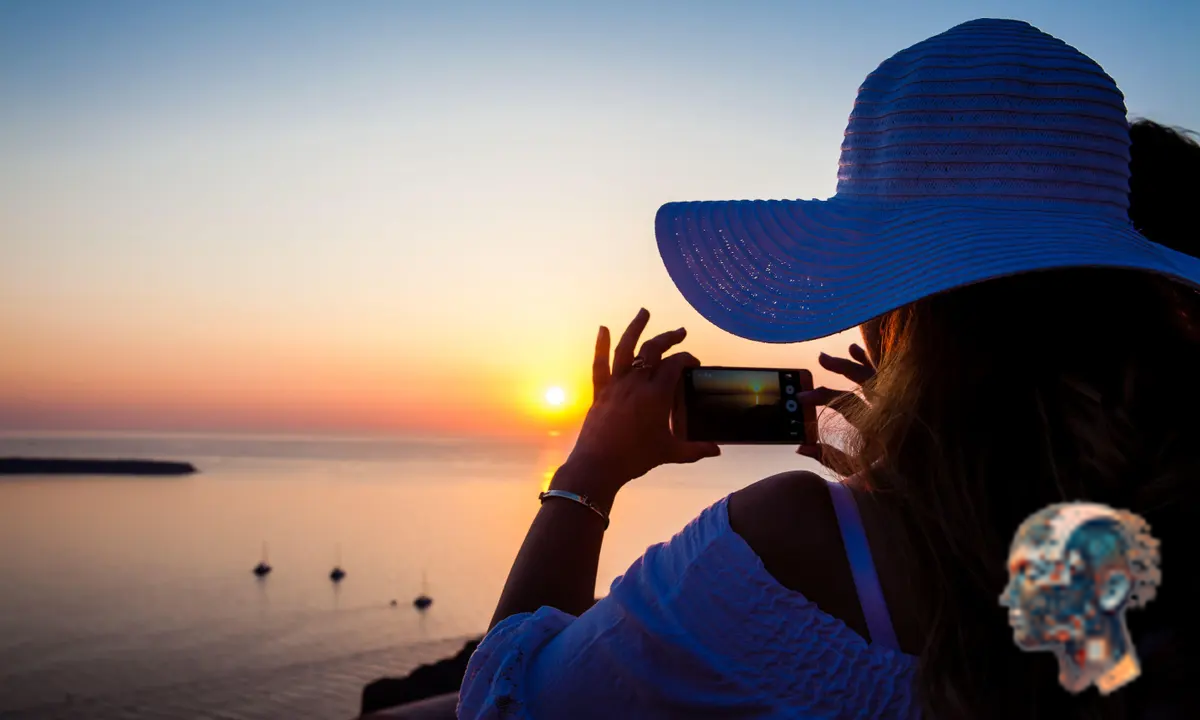
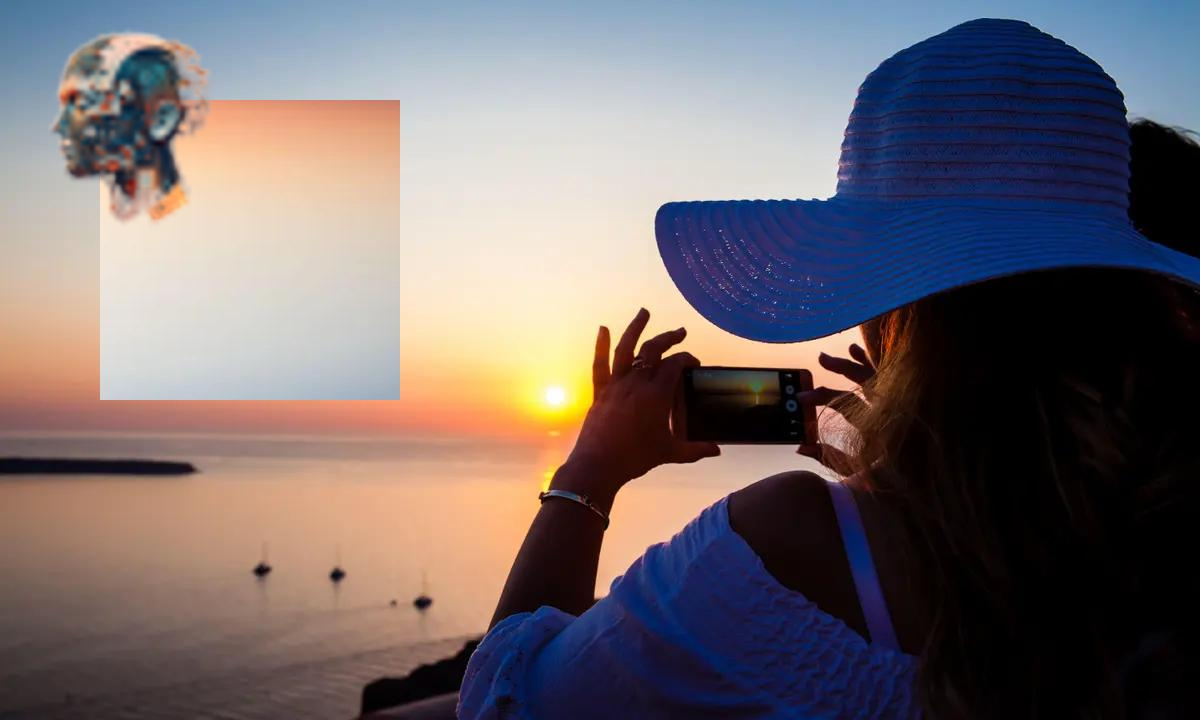
edit.js server watermark

Changed region(s): [[0.0308, 0.0306, 0.3392, 0.5806], [0.8325, 0.6722, 0.9867, 0.9778]]

diff --git a/static/js/edit.js b/static/js/edit.js
@@ -16,7 +16,7 @@ document.addEventListener('DOMContentLoaded', function() {
     const container = document; // Using document as the container for simplicity, adjust as needed
     
     let initialDistance = null;
-    let scale = 1; // Initial scale for pinch-to-zoom
+    window.scale = 1; // Initial scale for pinch-to-zoom
     let isDragging = false; // Track if we are in drag mode
 
     // Function to calculate the distance between two touch points for pinch-to-zoom
@@ -47,71 +47,71 @@ document.addEventListener('DOMContentLoaded', function() {
     }
 
     // Add drag functionality
-    function makeDraggable(dragTarget) {
-        let startX, startY, offsetX, offsetY, isDragging = false;
-    
-        function startDrag(e) {
-            // Prevent initiating drag if we are scaling or if more than one touch is detected
-            if (e.touches && e.touches.length > 1) return;
-    
-            const clientX = e.type.includes('touch') ? e.touches[0].clientX : e.clientX;
-            const clientY = e.type.includes('touch') ? e.touches[0].clientY : e.clientY;
-    
-            // Get the initial position of the dragTarget relative to the viewport
-            const rect = dragTarget.getBoundingClientRect();
-            startX = clientX;
-            startY = clientY;
-    
-            // Calculate the offset from the cursor/finger to the top-left corner of the dragTarget
-            offsetX = clientX - rect.left;
-            offsetY = clientY - rect.top;
-    
-            // Attach event listeners for moving and stopping the drag
-            document.addEventListener('mousemove', onDrag, {passive: false});
-            document.addEventListener('mouseup', stopDrag);
-            document.addEventListener('touchmove', onDrag, {passive: false});
-            document.addEventListener('touchend', stopDrag);
-    
-            isDragging = true;
-            e.preventDefault(); // Prevent text selection or other default actions
-        }
-    
-        function onDrag(e) {
-            if (!isDragging) return;
-    
-            const clientX = e.type.includes('touch') ? e.touches[0].clientX : e.clientX;
-            const clientY = e.type.includes('touch') ? e.touches[0].clientY : e.clientY;
-    
-            // Include page scroll offsets in the calculation for absolute positioning relative to the document
-            const scrollX = window.pageXOffset || document.documentElement.scrollLeft;
-            const scrollY = window.pageYOffset || document.documentElement.scrollTop;
-    
-            // Use startX/Y, offsetX/Y to maintain the initial offset between the touch point and the element's original position
-            const newX = clientX - offsetX + scrollX;
-            const newY = clientY - offsetY + scrollY;
-    
-            // Apply the calculated position
-            dragTarget.style.position = 'absolute'; // Ensure the position is absolute
-            dragTarget.style.left = newX + 'px';
-            dragTarget.style.top = newY + 'px';
-    
-            e.preventDefault(); // This line is optional, based on whether you need to prevent default behavior during drag
-        }
-    
-        function stopDrag() {
-            document.removeEventListener('mousemove', onDrag);
-            document.removeEventListener('mouseup', stopDrag);
-            document.removeEventListener('touchmove', onDrag);
-            document.removeEventListener('touchend', stopDrag);
-    
-            isDragging = false;
-        }
-    
-        // Attach the initial listener for both mouse and touch start
-        dragTarget.addEventListener('mousedown', startDrag);
-        dragTarget.addEventListener('touchstart', startDrag);
+function makeDraggable(dragTarget) {
+    let startX, startY, offsetX, offsetY, isDragging = false;
+
+    function startDrag(e) {
+        // Prevent initiating drag if we are scaling or if more than one touch is detected
+        if (e.touches && e.touches.length > 1) return;
+
+        const clientX = e.type.includes('touch') ? e.touches[0].clientX : e.clientX;
+        const clientY = e.type.includes('touch') ? e.touches[0].clientY : e.clientY;
+
+        // Get the initial position of the dragTarget relative to the viewport
+        const rect = dragTarget.getBoundingClientRect();
+        startX = clientX;
+        startY = clientY;
+
+        // Calculate the offset from the cursor/finger to the top-left corner of the dragTarget
+        offsetX = clientX - rect.left;
+        offsetY = clientY - rect.top;
+
+        // Attach event listeners for moving and stopping the drag
+        document.addEventListener('mousemove', onDrag, {passive: false});
+        document.addEventListener('mouseup', stopDrag);
+        document.addEventListener('touchmove', onDrag, {passive: false});
+        document.addEventListener('touchend', stopDrag);
+
+        isDragging = true;
+        e.preventDefault(); // Prevent text selection or other default actions
     }
-    
+
+    function onDrag(e) {
+        if (!isDragging) return;
+
+        const clientX = e.type.includes('touch') ? e.touches[0].clientX : e.clientX;
+        const clientY = e.type.includes('touch') ? e.touches[0].clientY : e.clientY;
+
+        // Include page scroll offsets in the calculation for absolute positioning relative to the document
+        const scrollX = window.pageXOffset || document.documentElement.scrollLeft;
+        const scrollY = window.pageYOffset || document.documentElement.scrollTop;
+
+        // Use startX/Y, offsetX/Y to maintain the initial offset between the touch point and the element's original position
+        const newX = clientX - offsetX + scrollX;
+        const newY = clientY - offsetY + scrollY;
+
+        // Apply the calculated position
+        dragTarget.style.position = 'absolute'; // Ensure the position is absolute
+        dragTarget.style.left = newX + 'px';
+        dragTarget.style.top = newY + 'px';
+
+        e.preventDefault(); // This line is optional, based on whether you need to prevent default behavior during drag
+    }
+
+    function stopDrag() {
+        document.removeEventListener('mousemove', onDrag);
+        document.removeEventListener('mouseup', stopDrag);
+        document.removeEventListener('touchmove', onDrag);
+        document.removeEventListener('touchend', stopDrag);
+
+        isDragging = false;
+    }
+
+    // Attach the initial listener for both mouse and touch start
+    dragTarget.addEventListener('mousedown', startDrag);
+    dragTarget.addEventListener('touchstart', startDrag);
+}
+
 
     // Initialize draggable functionality
     makeDraggable(watermark);
@@ -162,6 +162,7 @@ document.getElementById('get-position-btn').addEventListener('click', function c
         body: JSON.stringify({
             watermark_pos: position,
             text_pos: text_position,
+            size: scale,
         })
         
     })

diff --git a/static/css/edit.css b/static/css/edit.css
@@ -35,5 +35,10 @@
     right: 10px;
 }
 
+body{
+    display: flex;
+    flex-direction: column;
+}
 
-button { border: 2px solid gray; color: gray; background-color: white; padding: 8px 20px; border-radius: 8px; font-size: 20px; font-weight: bold; }
+button { border: 2px solid gray; color: gray; background-color: white; padding: 8px 20px; border-radius: 8px; font-size: 20px; font-weight: bold;
+    width: 300px; }

diff --git a/templates/edit.html b/templates/edit.html
@@ -13,8 +13,6 @@
         <p id="text-watermark" style="color:green; font-size: 25px;">Hello it's me</p>
 
     </div>
-    <button onclick="selectTarget('image-watermark')">Manipulate Image</button>
-    <button onclick="selectTarget('text-watermark')">Manipulate Text</button>
     <button id="get-position-btn" >Get Watermark Position</button>
     <span id="num"></span><br>
     <span id="tnum"></span><br>

diff --git a/watermark.py b/watermark.py
@@ -3,26 +3,35 @@ from PIL import Image, ImageOps
 
 class Watermark():
     
-    def merge_with_transparency(self,background_image_path, transparent_image_path, position):
-        with Image.open(transparent_image_path) as img:
-            ImageOps.cover(img, (250, 250)).save(transparent_image_path)
+    def merge_with_transparency(self,background_image_path, watermark_path, position, **kwargs):
+        with Image.open(watermark_path) as img:
+            ImageOps.cover(img, (250, 250)).save(watermark_path)
         # Open the background and transparent images
         background = Image.open(background_image_path).convert("RGBA")
-        transparent_image = Image.open(transparent_image_path).convert("RGBA")
+        watermark = Image.open(watermark_path).convert("RGBA")
     
         # Create a new blank image with the same size as the background
         merged_image = Image.new("RGBA", background.size)
-
+        try:
+            
+            watermark_width = kwargs.get('width', watermark.width)
+            watermark_height= kwargs.get('height', watermark.width)
+            
+            resized_watermark = watermark.resize((watermark_width, watermark_height))
+        except TypeError:
+            pass
+        else:
+            watermark = resized_watermark
         # Paste the background image onto the blank image
         merged_image.paste(background, (0,0))
         # Paste the transparent image onto the merged image at the specified position
         # The transparent image itself is used as the mask to maintain its transparency
-        merged_image.paste(transparent_image, position, mask=transparent_image)
+        merged_image.paste(watermark, position, mask=watermark)
 
         return merged_image
     
     def get_result(self, image, watermark, side):
-        result = self.merge_with_transparency(image, watermark, side)
+        result = self.merge_with_transparency(image, watermark, side, width = None, height = None)
         result.save('result/result.png', "PNG")
         return 'result/result.png'
 

diff --git a/server.py b/server.py
@@ -1,4 +1,4 @@
-from flask import Flask, url_for, render_template, redirect,json, request, send_file, session
+from flask import Flask, url_for, render_template, redirect,json, request, send_file, session, jsonify
 import os
 from watermark import Watermark
 import tempfile
@@ -58,8 +58,8 @@ def edit():
     if request.method == "POST":
         print('helo')
         data = request.get_json()
-        print("ddd", data["watermark_pos"])
         print(data)
+        return jsonify(data)
     return render_template('edit.html', data = json.dumps(data))
 
 if __name__ == "__main__":
